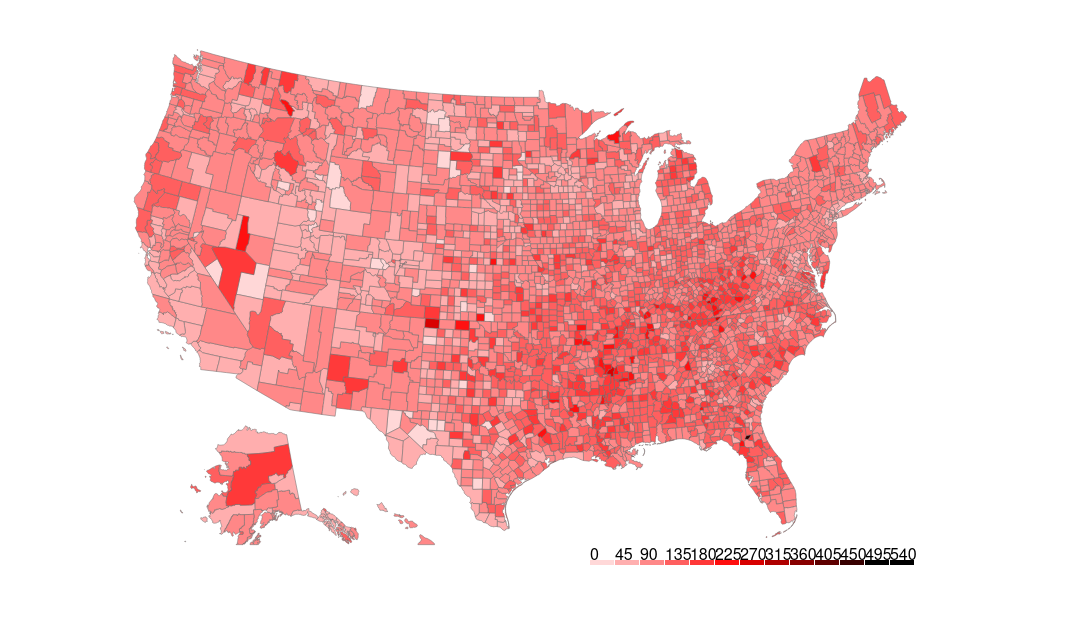
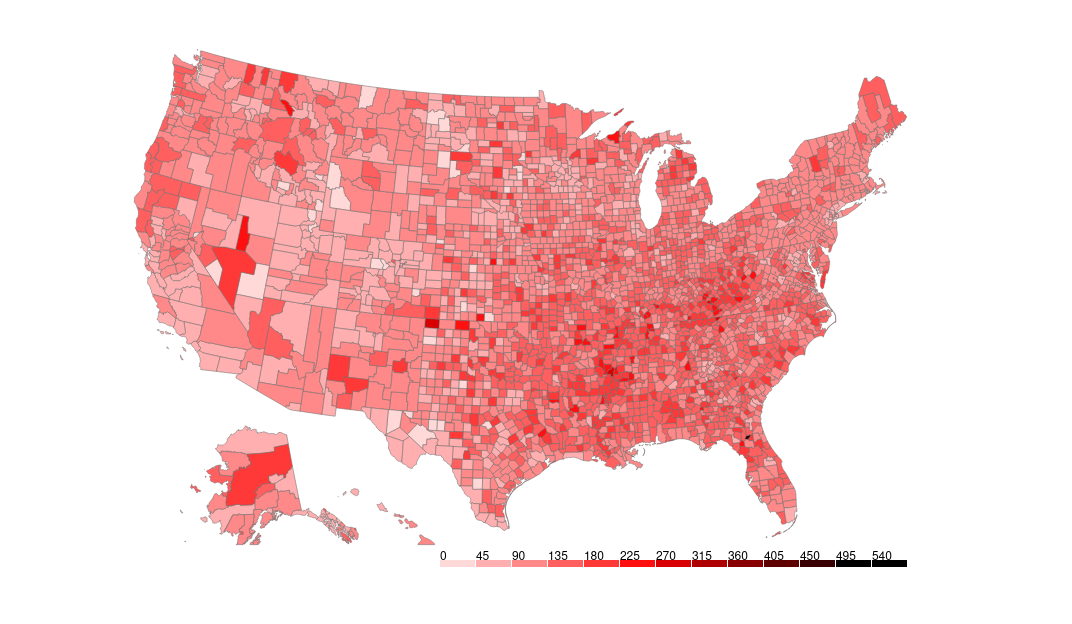
added all cause for front page. Change legend

Changed region(s): [[0.4002, 0.8526, 0.8619, 0.9135]]

diff --git a/www/All.js b/www/All.js
@@ -1,0 +1,191 @@
+$(document).ready(() => {
+var image = document.getElementById("national_map_new");
+//var btn = document.getElementById("play");
+//btn.innerHTML = "Play";
+var images = ["National_image/All Cause/1.png","National_image/All Cause/2.png","National_image/All Cause/3.png","National_image/All Cause/4.png","National_image/All Cause/5.png" ,"National_image/All Cause/6.png"];
+var position = 0;
+var playing = false;
+image.src = images[5];
+/*
+btn.onclick = function(){
+  if(playing === true){
+    playing = false;
+    btn.innerHTML = "Play";
+  }
+  else{
+    playing = true;
+    btn.innerHTML = "Stop";
+  }
+}*/
+var interval = setInterval(changeImage, 1000);
+clearInterval(interval);
+
+//different button of period
+var btn1 = document.getElementById("first_period");
+var btn2 = document.getElementById("second_period");
+var btn3 = document.getElementById("third_period");
+var btn4 = document.getElementById("forth_period");
+var btn5 = document.getElementById("fifth_period");
+var btn6 = document.getElementById("sixth_period");
+var btn_list = [btn1,btn2,btn3,btn4,btn5,btn6];
+
+// Set buttons as transparent .style.background = "none";
+btn1.style.background = "none";
+btn2.style.background = "none";
+btn3.style.background = "none";
+btn4.style.background = "none";
+btn5.style.background = "none";
+btn6.style.background = "none";
+
+btn1.onclick = function(){
+  if(playing === true){
+    playing = false;
+//    btn.innerHTML = "Play";
+  }
+  for(i = 0; i < btn_list.length; i++){
+    if(i === 0){
+      btn_list[i].style.backgroundColor = "#565254";
+      //btn_list[i].style.border = "solid";
+      //btn_list[i].style.borderWidth = "1px";
+      //btn_list[i].style.borderRadius= "3px";
+    }
+    else{
+      btn_list[i].style.background = "none";
+      //btn_list[i].style.border = "none";
+    }
+  }
+  Shiny.setInputValue("page1_period", 1);
+  image.src = images[0];
+  position = 0;
+}
+btn2.onclick = function(){
+  if(playing === true){
+    playing = false;
+//    btn.innerHTML = "Play";
+  }
+  for(i = 0; i < btn_list.length; i++){
+    if(i === 1){
+      btn_list[i].style.backgroundColor = "#565254";
+      //btn_list[i].style.border = "solid";
+      //btn_list[i].style.borderWidth = "1px";
+      //btn_list[i].style.borderRadius= "3px";
+    }
+    else{
+      btn_list[i].style.background = "none";
+      //btn_list[i].style.border = "none";
+      
+    }
+  }
+  Shiny.setInputValue("page1_period", 2);
+  image.src = images[1];
+  position = 1;
+}
+btn3.onclick = function(){
+  if(playing === true){
+    playing = false;
+//    btn.innerHTML = "Play";
+  }
+  for(i = 0; i < btn_list.length; i++){
+    if(i === 2){
+      btn_list[i].style.backgroundColor = "#565254";
+      //btn_list[i].style.border = "solid";
+      //btn_list[i].style.borderWidth = "1px";
+      //btn_list[i].style.borderRadius= "3px";
+    }
+    else{
+      btn_list[i].style.background = "none";
+      //btn_list[i].style.border = "none";
+    }
+  }
+  Shiny.setInputValue("page1_period", 3);
+  image.src = images[2];
+  position = 2;
+}
+btn4.onclick = function(){
+  if(playing === true){
+    playing = false;
+//    btn.innerHTML = "Play";
+  }
+  for(i = 0; i < btn_list.length; i++){
+    if(i === 3){
+      btn_list[i].style.backgroundColor = "#565254";
+      //btn_list[i].style.border = "solid";
+      //btn_list[i].style.borderWidth = "1px";
+      //btn_list[i].style.borderRadius= "3px";
+    }
+    else{
+      //btn_list[i].style.border = "none";
+      btn_list[i].style.background = "none";
+    }
+  }
+  Shiny.setInputValue("page1_period", 4);
+  image.src = images[3];
+  position = 3;
+}
+btn5.onclick = function(){
+  if(playing === true){
+    playing = false;
+//    btn.innerHTML = "Play";
+  }
+  for(i = 0; i < btn_list.length; i++){
+    if(i === 4){
+      btn_list[i].style.backgroundColor = "#565254";
+      //btn_list[i].style.border = "solid";
+      //btn_list[i].style.borderWidth = "1px";
+      //btn_list[i].style.borderRadius= "3px";
+    }
+    else{
+      btn_list[i].style.background = "none";
+      //btn_list[i].style.border = "none";
+    }
+  }
+  Shiny.setInputValue("page1_period", 5);
+  image.src = images[4];
+  position = 4;
+}
+btn6.onclick = function(){
+  if(playing === true){
+    playing = false;
+//    btn.innerHTML = "Play";
+  }
+  for(i = 0; i < btn_list.length; i++){
+   if(i === 5){
+      btn_list[i].style.backgroundColor = "#565254";
+      //btn_list[i].style.border = "solid";
+      //btn_list[i].style.borderWidth = "1px";
+      //btn_list[i].style.borderRadius= "3px";
+    }
+    else{
+      //btn_list[i].style.border = "none";
+      btn_list[i].style.background = "none";
+    }
+  }
+  Shiny.setInputValue("page1_period", 6);
+  image.src = images[5];
+  position = 5;
+}
+
+function changeImage(){
+//    if(btn.innerHTML == "Stop"){
+      if(position >= images.length){
+        position = 0;
+      }
+      var i;
+      for(i = 0; i < btn_list.length; i++){
+        if(i === position){
+      btn_list[i].style.backgroundColor = "#565254";
+      //btn_list[i].style.border = "solid";
+      //btn_list[i].style.borderWidth = "1px";
+      //btn_list[i].style.borderRadius= "3px";
+    }
+    else{
+      btn_list[i].style.background = "none";
+      //btn_list[i].style.border = "none";
+    }
+      }
+      image.src = images[position];
+      position++;
+//    }
+}
+
+});

diff --git a/www/d3_animation.js b/www/d3_animation.js
@@ -15,6 +15,9 @@ function sequenceMap(index,tooltip,cause) {
     else if (cause == "Assault") {
       death_rate_domain = [0,3,6,9,12,15,18,21,24,27,30,33,36];
     }
+    else if (cause == "All Cause"){
+      death_rate_domain = [0,100,200,300,400,500,600,700,800,900,1000,1100,1200];
+    }
     
     var color = d3.scale.threshold()
             .domain(death_rate_domain)
@@ -54,6 +57,9 @@ r2d3.onRender(function(data, svg, width, height, options) {
     }
     else if (cause == "Assault") {
       death_rate_domain = [0,3,6,9,12,15,18,21,24,27,30,33,36];
+    }
+    else if (cause == "All Cause"){
+      death_rate_domain = [0,100,200,300,400,500,600,700,800,900,1000,1100,1200];
     }
   var death_rate = d3.map();
   var color = d3.scale.threshold()
@@ -119,11 +125,11 @@ r2d3.onRender(function(data, svg, width, height, options) {
           .enter()
           .append("rect")
           .attr({
-              width: 24,
-              height: 5,
+              width: 35,
+              height: 7,
               y: 520,
               x: function (d, i) {
-                  return 550 + 25 * i;
+                  return 400 + 36 * i;
               },
               fill: color
           });
@@ -135,11 +141,12 @@ r2d3.onRender(function(data, svg, width, height, options) {
       .attr({
         y:520,
         x:function(d,i){
-          return 550 + 25 * i;
+          return 400 + 36 * i;
         }})
       .text(function(d){
           return d;
         })
+      .style("font-size", "12px")
       ;
           
   var index = 0;        
